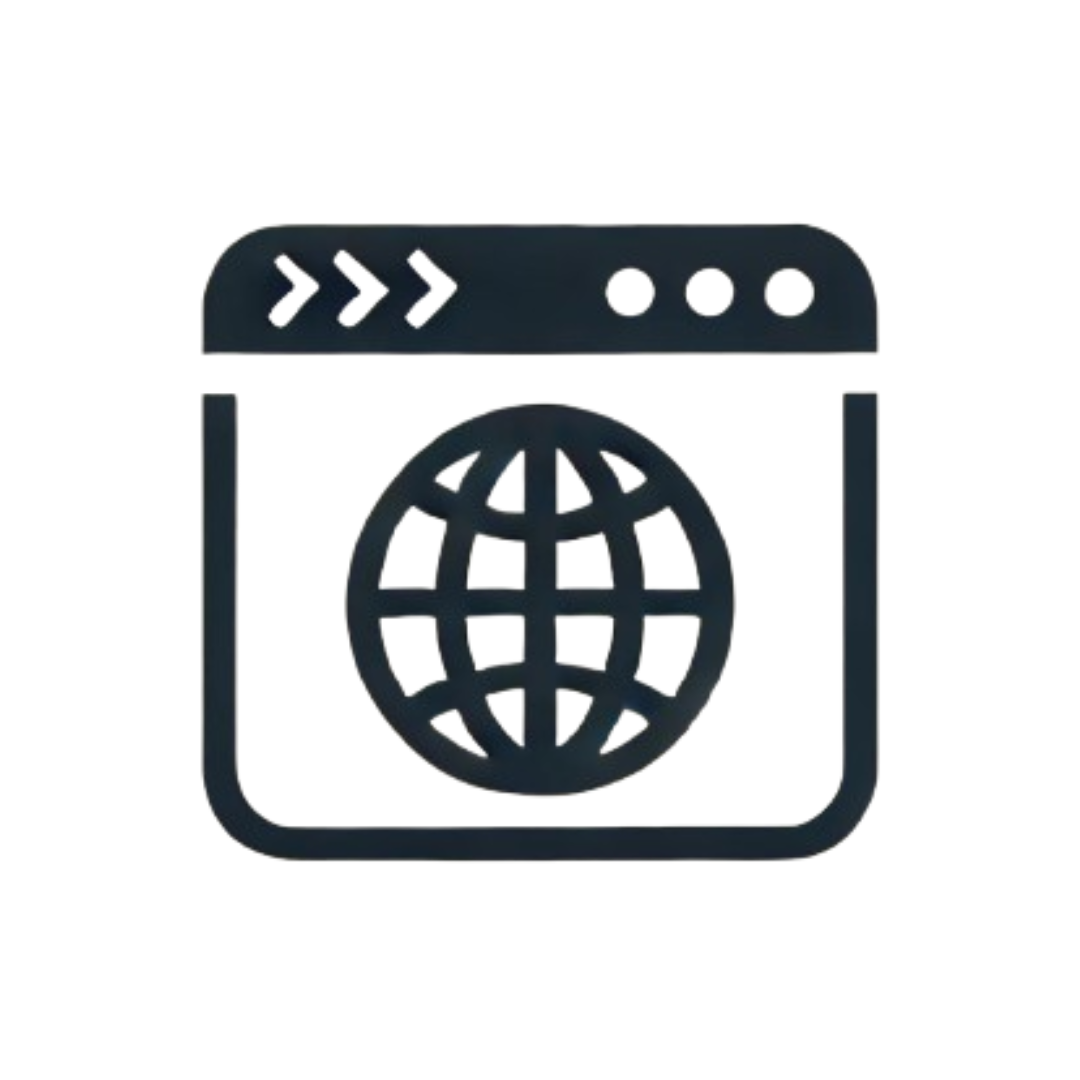
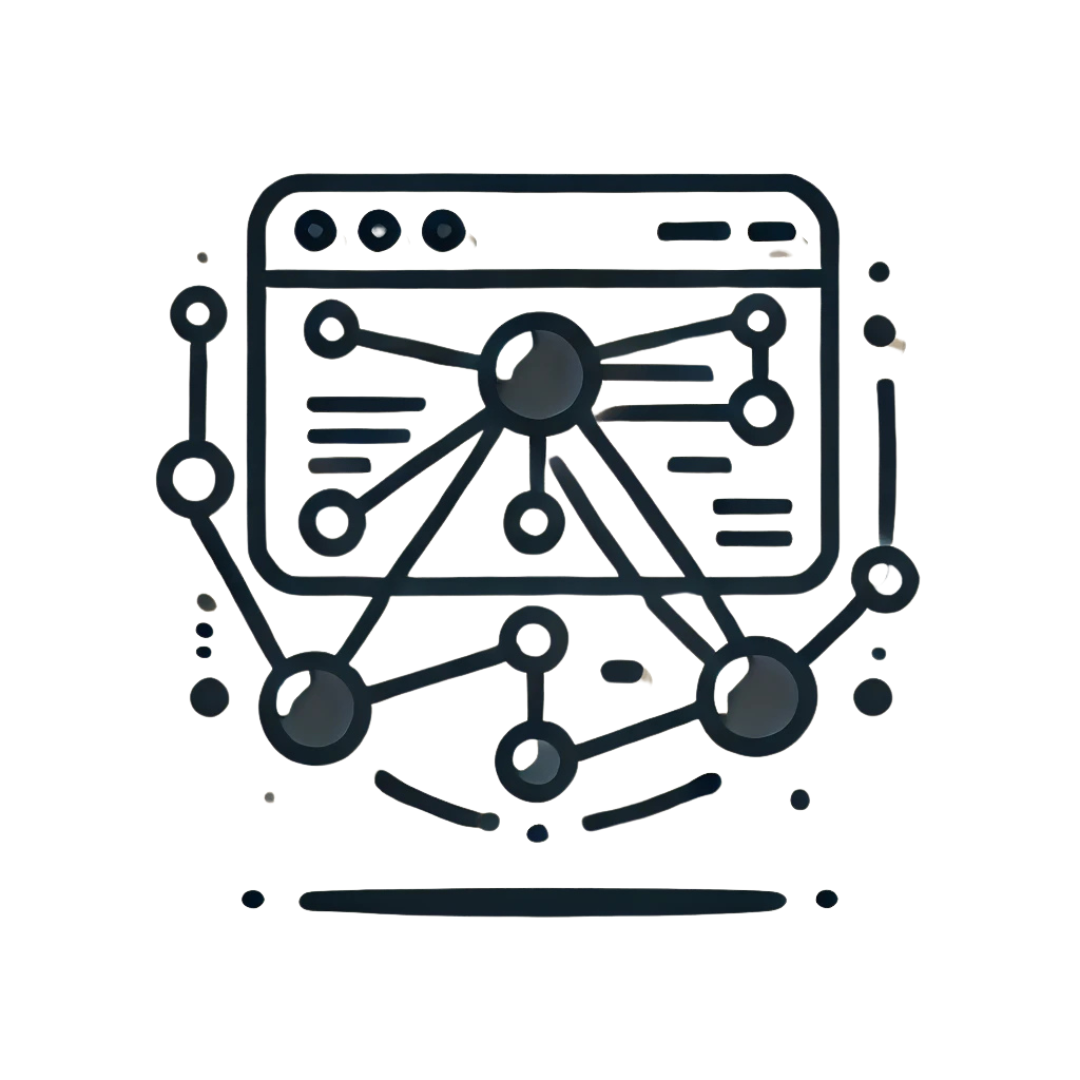
Updated services

Changed region(s): [[0.1222, 0.1528, 0.8556, 0.8556], [0.2139, 0.825, 0.2444, 0.8556]]

diff --git a/index.html b/index.html
@@ -329,7 +329,7 @@ layout: default
               <i class="fas fa-plus fa-3x"></i>
             </div>
           </div>
-          <img class="img-fluid" src="assets/img/portfolio/" alt="">
+          <img class="img-fluid" src="assets/img/portfolio/14-Web development.png" alt="">
         </a>
         <div class="portfolio-caption">
           <h4>Web Development</h4>

diff --git a/_portfolio/project914.md b/_portfolio/project914.md
@@ -7,6 +7,6 @@ alt:
 caption:
   title: Web Development
   subtitle: 
-  thumbnail: 
+  thumbnail: assets/img/portfolio/14.png
 ---
 Our web development services create custom, responsive, and user-friendly websites tailored to your business needs. From front-end design to back-end functionality, we build secure, scalable solutions that enhance user experience and drive business growth.
